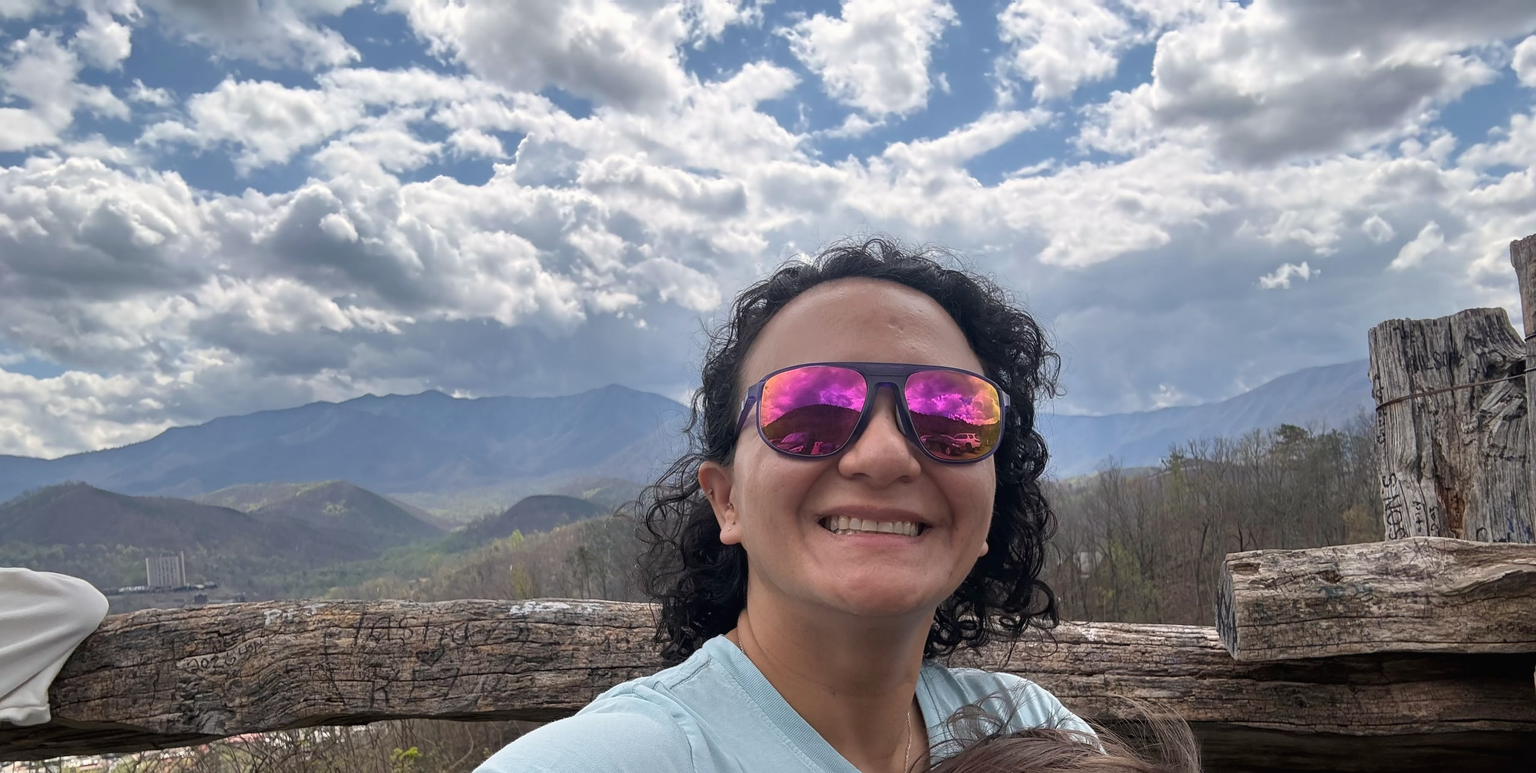
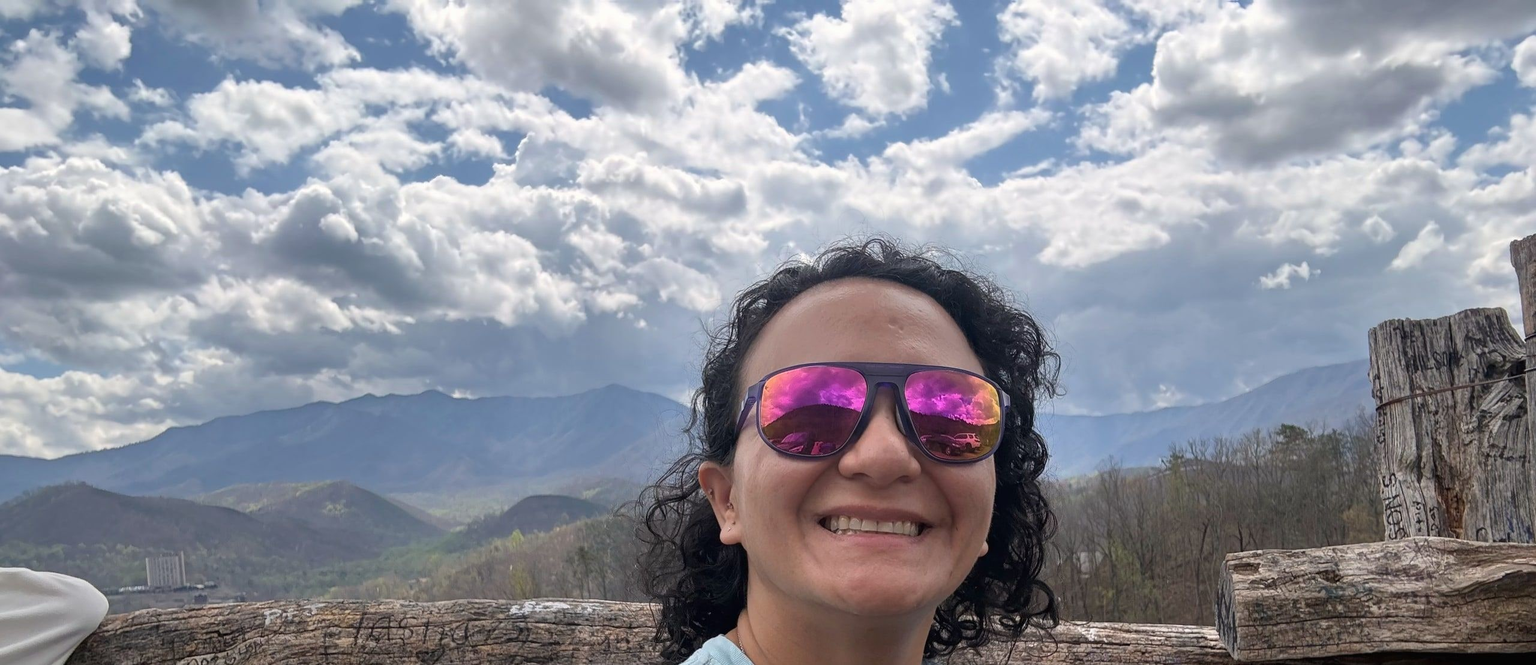
Take the photos of Viviana's daughter off the site
The About page's "Off the Page" row showed her daughter with Viviana at
the Leuchtturm1917 booth; the row is now three photos. A second photo of
her daughter, never used on the site, is removed from the project too,
and neither can come back through the photo import. The Smoky Mountains
photo is trimmed at the bottom, where the top of a second head was in
frame.

The row's frames now fill properly (a wide photo used to sit short in its
slot), and on phones the third photo takes the whole row.

diff --git a/scripts/ingest-photos.ts b/scripts/ingest-photos.ts
@@ -30,7 +30,6 @@ const personal: Record<string, string> = {
   'FullSizeRender 3.HEIC': 'photo-smokies-1',
   'FullSizeRender 4.HEIC': 'photo-smokies-2',
   'image000000.JPG': 'photo-husky-court',
-  'IMG_2985.HEIC': 'photo-stationery-fest-daughter',
   'IMG_6855.JPG': 'photo-husky-hallway',
   'IMG_7158.HEIC': 'photo-flag-selfie',
   'IMG_7163.HEIC': 'photo-husky-treadmill',
@@ -38,8 +37,12 @@ const personal: Record<string, string> = {
   'IMG_7350.HEIC': 'photo-desert-hike-1',
   'IMG_7351.HEIC': 'photo-desert-hike-2',
   'IMG_7358.HEIC': 'photo-desert-cactus',
-  'IMG_7442.HEIC': 'photo-leuchtturm-pens',
   'IMG_7484.HEIC': 'photo-stationery-liberty',
+};
+
+/** Edges trimmed off (fractions of the upright image) so only Viviana is in frame. */
+const trims: Record<string, { bottom: number }> = {
+  'photo-smokies-1': { bottom: 0.14 },
 };
 
 /** Remote (rescued from Squarespace): which grade each gets. */
@@ -89,7 +92,14 @@ async function processImage(
   const ext = extname(srcPath).toLowerCase();
   const input = ext === '.heic' ? decodeHeic(srcPath, tmp) : srcPath;
   const outPath = join(OUT, `${slug}.jpg`);
-  const info = await applyGrade(sharp(input), profile)
+  let image = sharp(input);
+  const trim = trims[slug];
+  if (trim) {
+    const upright = await sharp(input).rotate().toBuffer({ resolveWithObject: true });
+    const height = Math.round(upright.info.height * (1 - trim.bottom));
+    image = sharp(upright.data).extract({ left: 0, top: 0, width: upright.info.width, height });
+  }
+  const info = await applyGrade(image, profile)
     .jpeg({ quality: 88, mozjpeg: true })
     .toFile(outPath);
   manifest[`${slug}.jpg`] = { width: info.width, height: info.height, profile };
